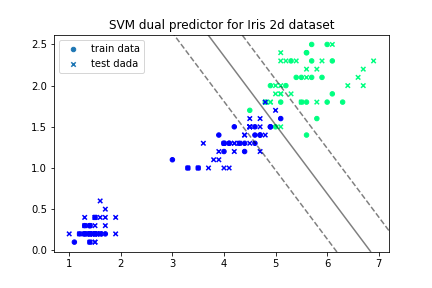
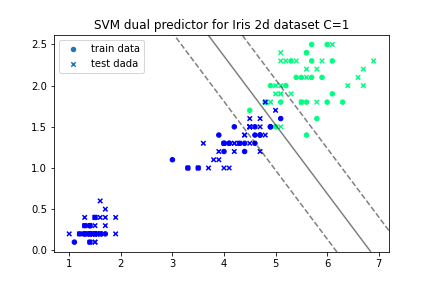
results added

Changed region(s): [[0.2106, 0.0625, 0.8125, 0.125]]

diff --git a/svm_main.py b/svm_main.py
@@ -11,13 +11,14 @@ import kernels
 import svm_predictors
 
 import matplotlib.pyplot as plt
+import time
 
-# Returns the percentage of points missclasified, comparing the values of the
+# Returns the fraction of points missclasified, comparing the values of the
 # labels predicted by the algorithm (predictedlabels) and the real ones (testlabels)
 def zero_one_loss(predictedlabels, testlabels): 
     
     err = float(np.sum(predictedlabels != testlabels))
-    percentage_error = err*100/len(testlabels)
+    percentage_error = err/len(testlabels)
     
     return percentage_error
 
@@ -97,6 +98,7 @@ def read_data_txt(file):
 #       when using predictors with kernels
 def n_fold_cross_validation(C_values, files, n, predClass, arg = None, loss='zero-one', rho=0.7):
     errors_c=[]
+    t0 = time.time()
     for c in C_values:
         errors=[]
         for i in range(n):
@@ -112,6 +114,12 @@ def n_fold_cross_validation(C_values, files, n, predClass, arg = None, loss='zer
             elif loss == 'margin':
                 errors.append(evaluate_and_error_margin(testdata, testlabels, svm, rho))
         errors_c.append(sum(errors)/len(errors))
+    t1 = time.time()
+    print("\n-----------------------------------------")
+    print("Errors for each C value: ", errors_c)
+    print("CV time (s): ", t1-t0)
+    print("-----------------------------------------\n")
+    
     return C_values[np.argmin(errors_c)]
 
 def run_dataset_with_cv(name, predictor, kernel, n=5, loss='zero-one', rho=0.7):
@@ -131,7 +139,9 @@ def run_dataset_with_cv(name, predictor, kernel, n=5, loss='zero-one', rho=0.7):
     else:
         svm = predictor(kernel)
     traindata, trainlabels = read_data_txt('Datasets/{}/train.txt'.format(name))
+    t0=time.time()
     svm.train(traindata, trainlabels, C)
+    t1=time.time()
     testdata, testlabels = read_data_txt('Datasets/{}/test.txt'.format(name))
     
     if loss=='zero-one':
@@ -140,12 +150,13 @@ def run_dataset_with_cv(name, predictor, kernel, n=5, loss='zero-one', rho=0.7):
         error = evaluate_and_error_margin(testdata, testlabels, svm, rho)
         
     print('Error: ', error)
+    print('Train time(s): ', t1-t0)
     print("-----------------------------------------\n")
 
     if(traindata.shape[1]==2 and predictor != svm_predictors.SVM_predictor_kernel):
         pred_save_name, pred_save_title = get_graph_name_predictor(predictor)
         save_name = 'Graphs/{}/{}_C_{}.png'.format(name, pred_save_name, C)
-        title = pred_save_title + ' for ' + name + ' dataset with C=' + int(C)
+        title = pred_save_title + ' for ' + name + ' dataset with C=' + str(C)
         plot_solution_2d(traindata, testdata, trainlabels, testlabels, svm, save_name, title)
     
 def get_graph_name_predictor(predictor):
@@ -170,8 +181,10 @@ def iris_2d_dataset(predictor, kernel=None, loss='zero-one', rho=0.7):
         svm=predictor()
     else:
         svm = predictor(kernel)
-
+    
+    t0=time.time()
     svm.train(traindata, trainlabels, 1)
+    t1=time.time()
 
     
     if loss=='zero-one':
@@ -181,6 +194,7 @@ def iris_2d_dataset(predictor, kernel=None, loss='zero-one', rho=0.7):
         
     print("\n-----------------------------------------")
     print('Error: ', error)
+    print('Train time (s): ', t1-t0)
     print("-----------------------------------------\n")
     
     if predictor != svm_predictors.SVM_predictor_kernel:
@@ -245,7 +259,7 @@ def main():
         print("5. Satimages Dataset (38 features, 3188 train samples, 1431 test samples")
         print("6. Exit")
         
-        dataset_opt=enter_option(1,5, "Enter an option: ")
+        dataset_opt=enter_option(1,6, "Enter an option: ")
         
         if dataset_opt==6:
             break
